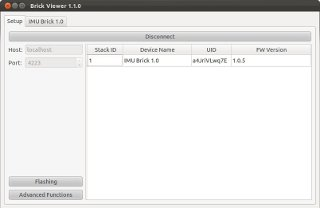
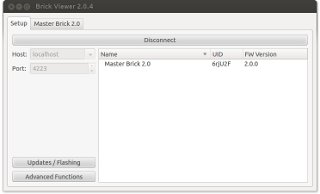
add new "check for updates" section fix images

Changed region(s): [[0.0, 0.0, 1.0, 0.9897]]

diff --git a/de/source/Software/Brickv.rst b/de/source/Software/Brickv.rst
@@ -43,46 +43,36 @@ Bricklets auf je einem eigenen Tab angezeigt und können getestet werden.
    :align: center
    :target: ../_images/Screenshots/brickv_setup_tab.jpg
 
-Ein Klick auf den "Check for Updates Knopf" öffnen einen Dialog mit Informationen
-über verfügbare Updates. Mittels des "Flashing" Knopfes kann ein Dialog zum
-Flashen neuer Firmwares und Plugins auf Bricks und Bricklets aufgerufen werden.
-Ein Klick auf den "Advanced Functions" Knopf öffnet einen Dialog zur Kalibrierung
-des Analog-Digital-Wandler eines Bricks.
+Ein Klick auf den "Updates / Flashing" öffnen einen Dialog mit Informationen
+über verfügbare Updates und der Möglichkeit Bricks und Bricklets
+neu zu flashen. Der "Advanced Functions" Knopf öffnet einen Dialog zur 
+Kalibrierung des Analog-Digital-Wandler eines Bricks.
 
 
-.. _brickv_adc_calibration:
+.. _brickv_auto_update:
 
-Brick AD-Wandler Kalibrierung
-^^^^^^^^^^^^^^^^^^^^^^^^^^^^^
+Aktuellen Stand bestimmen / Nach Updates suchen
+^^^^^^^^^^^^^^^^^^^^^^^^^^^^^^^^^^^^^^^^^^^^^^^
 
-Bei Problemen mit ungenauen Messungen (z.B. erreicht das Linear Poti Bricklet
-nicht den Maximalwert oder die Spannungsmessung im Stapel ist ungenau) kann
-die Kalibrierung des AD-Wandlers Schuld sein.
+Nach dem Start des Brick Viewers und dem Verbinden zu einem
+Brick Daemon oder einer Master Extension kann überprüft werden ob
+eine neuere Software für die angeschlossenen Geräte verfügbar ist.
 
-Der Mikrocontroller auf den Bricks verwendet einen Analog-Digital-Wandler um
-analoge Spannungen zu messen. Da der AD-Wandler nicht perfekt kalibriert ist
-kann dieser über den Brick Viewer nachkalibriert werden.
+Hierzu muss auf "Updates / Flashing" geklickt werden. Der Dialog
+zeigt die angeschlossenen Geräte und deren Software stand. Orange
+unterlegte Einträge können geupdated werden. Rot unterlegte Einträge
+müssen geupdated werden damit sie korrekt funktionieren.
 
-Für die Kalibrierung wird eines der Potentiometer Bricklets (Rotary Poti
-oder Linear Poti) benötigt. Verbinde es mit dem Brick und rufe den
-"Advanced Functions" Dialog im Brick Viewer auf:
-
-.. image:: /Images/Screenshots/brickv_advanced_functions_calibrate_small.jpg
+.. image:: /Images/Screenshots/brickv_auto_update_small.jpg
    :scale: 100 %
-   :alt: Brickv (AD-Wandler Kalibrierung)
+   :alt: Brickv (Updates)
    :align: center
-   :target: ../_images/Screenshots/brickv_advanced_functions_calibrate.jpg
+   :target: ../_images/Screenshots/brickv_auto_update.jpg
 
-Wähle den Port aus an dem das Poti Bricklet angeschlossen ist (A-D).
-Stelle dann das Poti Bricklet ganz nach links und klicke den "Calibrate" Knopf.
-Stelle das Poti Bricklet ganz nach rechts und klicke wieder den "Calibrate"
-Knopf. Falls der AD-Wandler nicht passend kalibriert war, dann weichen jetzt der
-Gain und Offset Wert von den Standardwerten ab (4095 und 0).
-
-Ob die Kalibrierung grundsätzlich funktioniert kann dadurch getestet werden,
-dass das Poti Bricklet in Mittelstellung gebracht und dann "Calibrate" geklickt
-wird. Dabei muss sich Gain oder Offset ändern (danach muss der AD-Wandler
-natürlich wieder korrekt kalibriert werden).
+Der Dialog ermöglicht es alle Bricklets gleichzeitig über den Knopf 
+"Auto-Update All Bricklets" auf die neuste Softwareversion zu bringen.
+Bricks können nicht automatisch auf den neusten Stand gebracht werden
+(siehe :ref:`Brick Firmware Flashing <brickv_flash_firmware>`). 
 
 
 .. _brickv_flash_firmware:
@@ -162,7 +152,11 @@ Firmware als lokale Datei über den "Browse..." Knopf ausgewählt werden.
 Bricklet Plugin Flashing
 ^^^^^^^^^^^^^^^^^^^^^^^^
 
-Der Brick Viewer kann auch Plugins auf Bricklets flashen. Die
+Der Brick Viewer kann auch Plugins auf Bricklets flashen.
+Hierfür gibt es die Möglichkeit alle Bricklets auf die neuste Version zu 
+bringen (siehe "Auto-Update All Bricklets" unter 
+:ref:`Aktuellen Stand bestimmen <brickv_auto_update>`). Alternativ können
+Bricklets auch einzelnd geflasht werden. Die
 jeweils neuste Pluginversion wird dabei automatisch vom Brick Viewer
 ermittelt und heruntergeladen. Diese können aber auch manuell im
 :ref:`Downloadbereich <downloads_firmwares_plugins>` heruntergeladen werden.
@@ -195,3 +189,39 @@ werden. Die UID ist Base58 kodiert, die erlaubten Zeichen umfassen
 0-9, a-z und A-Z ohne 0 (Null), I (groß i), O (groß o) und l (klein L).
 Die einzige weitere Einschränkung ist, dass die UIDs aller Bricklets eindeutig
 sind.
+
+
+.. _brickv_adc_calibration:
+
+Brick AD-Wandler Kalibrierung
+^^^^^^^^^^^^^^^^^^^^^^^^^^^^^
+
+Bei Problemen mit ungenauen Messungen (z.B. erreicht das Linear Poti Bricklet
+nicht den Maximalwert oder die Spannungsmessung im Stapel ist ungenau) kann
+die Kalibrierung des AD-Wandlers Schuld sein.
+
+Der Mikrocontroller auf den Bricks verwendet einen Analog-Digital-Wandler um
+analoge Spannungen zu messen. Da der AD-Wandler nicht perfekt kalibriert ist
+kann dieser über den Brick Viewer nachkalibriert werden.
+
+Für die Kalibrierung wird eines der Potentiometer Bricklets (Rotary Poti
+oder Linear Poti) benötigt. Verbinde es mit dem Brick und rufe den
+"Advanced Functions" Dialog im Brick Viewer auf:
+
+.. image:: /Images/Screenshots/brickv_advanced_functions_calibrate_small.jpg
+   :scale: 100 %
+   :alt: Brickv (AD-Wandler Kalibrierung)
+   :align: center
+   :target: ../_images/Screenshots/brickv_advanced_functions_calibrate.jpg
+
+Wähle den Port aus an dem das Poti Bricklet angeschlossen ist (A-D).
+Stelle dann das Poti Bricklet ganz nach links und klicke den "Calibrate" Knopf.
+Stelle das Poti Bricklet ganz nach rechts und klicke wieder den "Calibrate"
+Knopf. Falls der AD-Wandler nicht passend kalibriert war, dann weichen jetzt der
+Gain und Offset Wert von den Standardwerten ab (4095 und 0).
+
+Ob die Kalibrierung grundsätzlich funktioniert kann dadurch getestet werden,
+dass das Poti Bricklet in Mittelstellung gebracht und dann "Calibrate" geklickt
+wird. Dabei muss sich Gain oder Offset ändern (danach muss der AD-Wandler
+natürlich wieder korrekt kalibriert werden).
+

diff --git a/en/source/Software/Brickv.rst b/en/source/Software/Brickv.rst
@@ -41,46 +41,40 @@ and test your Bricks and Bricklets.
    :align: center
    :target: ../_images/Screenshots/brickv_setup_tab.jpg
 
-The "Check for Updates" button opens a list with available updates.
-If you click on "Flashing" you can flash firmwares and plugins onto Bricks and
+The "Updates / Flashing" button opens a dialogue which shows available updates
+and let you flash firmwares and pluginsonto Bricks and
 Bricklets. If you click on "Advanced Functions" you can calibrate the
 analog-to-digital converts (ADC) of Bricks (see below).
 
 
-.. _brickv_adc_calibration:
+.. _brickv_auto_update:
 
-Brick ADC Calibration
-^^^^^^^^^^^^^^^^^^^^^
+Determine Software Versions / Search for Updates
+^^^^^^^^^^^^^^^^^^^^^^^^^^^^^^^^^^^^^^^^^^^^^^^^
 
-If you have problems with inaccurate measurements (e.g. Linear Poti Bricklet
-does not reach the maximum or the voltage measurements in a stack is slightly off)
-it is possible that the calibration of the ADC is to blame.
+If you have started the Brick Viewer and connected it to
+a Brick Daemon or a Master Extension you can determine the
+current software versions and search for updates for
+all the connected hardware.
 
-To measure analog values, the microcontrollers
-on the Bricks have analog-to-digital converter (ADC). It is never guaranteed
-that an ADC on a microcontroller is perfectly calibrated. To overcome
-this problem, we make it possible to calibrate the ADC in your Bricks.
+To do this you have to press the "Updates / Flashing" button.
+A dialogue should open which shows you the current software versions.
+An orange entry tells you that a new version for this entry exist.
+A red entry tells you that the software for this entry has to be updated
+to work properly.
 
-For the calibration you need one of the potentiometer Bricklets (Rotary Poti
-or Linear Poti). Connect it to a Brick and click on "Advanced Functions" in
-the Setup tab of Brick Viewer:
-
-.. image:: /Images/Screenshots/brickv_advanced_functions_calibrate_small.jpg
+.. image:: /Images/Screenshots/brickv_auto_update_small.jpg
    :scale: 100 %
-   :alt: Brickv (ADC Calibration)
+   :alt: Brickv (Updates)
    :align: center
-   :target: ../_images/Screenshots/brickv_advanced_functions_calibrate.jpg
+   :target: ../_images/Screenshots/brickv_auto_update.jpg
 
-Choose the port your Poti Bricklet is connected to (A-D).
-Turn your Poti Bricklet completely to the left and press "Calibrate", then turn
-your Poti Bricklet completely to right and press "Calibrate" again. If your ADC
-wasn't calibrated well the gain and offset values should be different then
-the default values (4095 and 0).
+If you want, you can update all Bricklets with the click
+on "Auto-Update All Bricklets". Bricks can't be updated automatically,
+you have to update them one by one 
+(see :ref:`Brick Firmware Flashing <brickv_flash_firmware>`).
 
-You can test if the calibration works in
-principle by pressing "Calibrate" when the Poti Bricklet is in the middle position,
-then one of the values has to change (after that you have to recalibrate,
-of course).
+
 
 
 .. _brickv_flash_firmware:
@@ -150,7 +144,12 @@ Bricklet Plugin Flashing
 ^^^^^^^^^^^^^^^^^^^^^^^^
 
 Flashing of Bricklet plugins into the EEPROM of the Bricklet is
-possible in the flashing window. The latest plugins will be downloaded
+possible in two different ways. One possibility is to use the 
+"Auto-Update All Bricklets" feature 
+(see :ref:`Determine Software Versions <brickv_auto_update>`).
+
+If you want to flash one distinct Bricklet you can use the flashing window. 
+The latest plugins will be downloaded
 automatically and can be found :ref:`here <downloads_firmwares_plugins>` too.
 
 Flashing a Bricklet requires that it is connected to a Brick which is listed in
@@ -179,3 +178,40 @@ new one. Note that the UID has to be in Base58 encoding, valid characters are
 0-9, a-z and A-Z without 0 (zero), I (big i), O (big o) and l (small L).
 The only other restriction is that all Bricklet UIDs you use at the same
 time need to be unique, you can use recognizable names or patterns.
+
+
+.. _brickv_adc_calibration:
+
+Brick ADC Calibration
+^^^^^^^^^^^^^^^^^^^^^
+
+If you have problems with inaccurate measurements (e.g. Linear Poti Bricklet
+does not reach the maximum or the voltage measurements in a stack is slightly off)
+it is possible that the calibration of the ADC is to blame.
+
+To measure analog values, the microcontrollers
+on the Bricks have analog-to-digital converter (ADC). It is never guaranteed
+that an ADC on a microcontroller is perfectly calibrated. To overcome
+this problem, we make it possible to calibrate the ADC in your Bricks.
+
+For the calibration you need one of the potentiometer Bricklets (Rotary Poti
+or Linear Poti). Connect it to a Brick and click on "Advanced Functions" in
+the Setup tab of Brick Viewer:
+
+.. image:: /Images/Screenshots/brickv_advanced_functions_calibrate_small.jpg
+   :scale: 100 %
+   :alt: Brickv (ADC Calibration)
+   :align: center
+   :target: ../_images/Screenshots/brickv_advanced_functions_calibrate.jpg
+
+Choose the port your Poti Bricklet is connected to (A-D).
+Turn your Poti Bricklet completely to the left and press "Calibrate", then turn
+your Poti Bricklet completely to right and press "Calibrate" again. If your ADC
+wasn't calibrated well the gain and offset values should be different then
+the default values (4095 and 0).
+
+You can test if the calibration works in
+principle by pressing "Calibrate" when the Poti Bricklet is in the middle position,
+then one of the values has to change (after that you have to recalibrate,
+of course).
+
